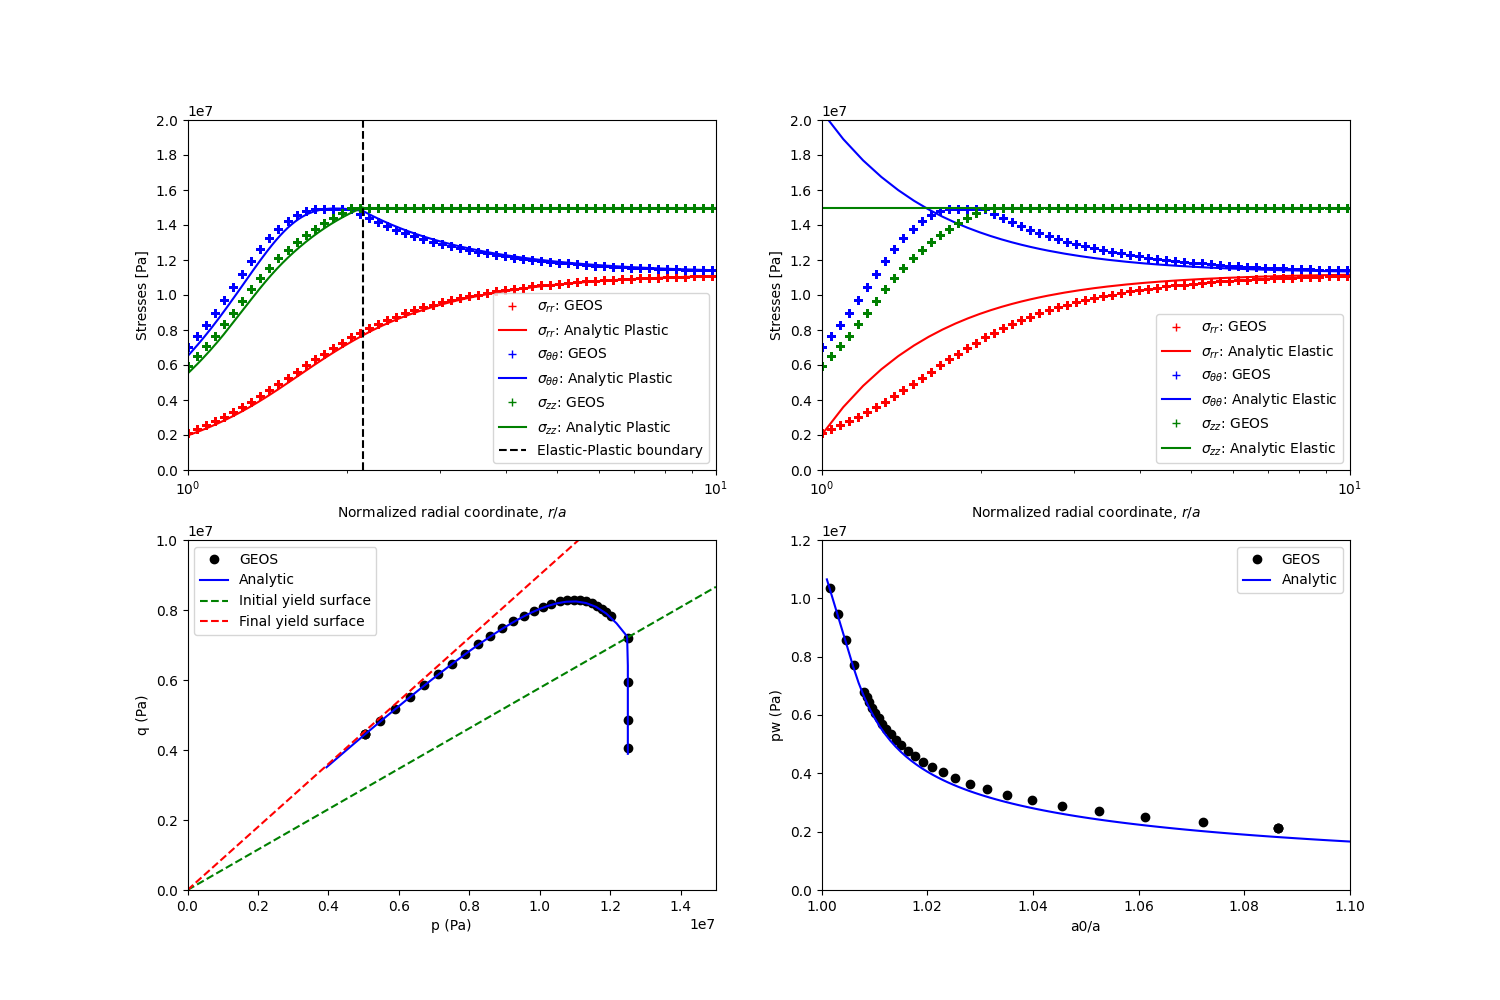
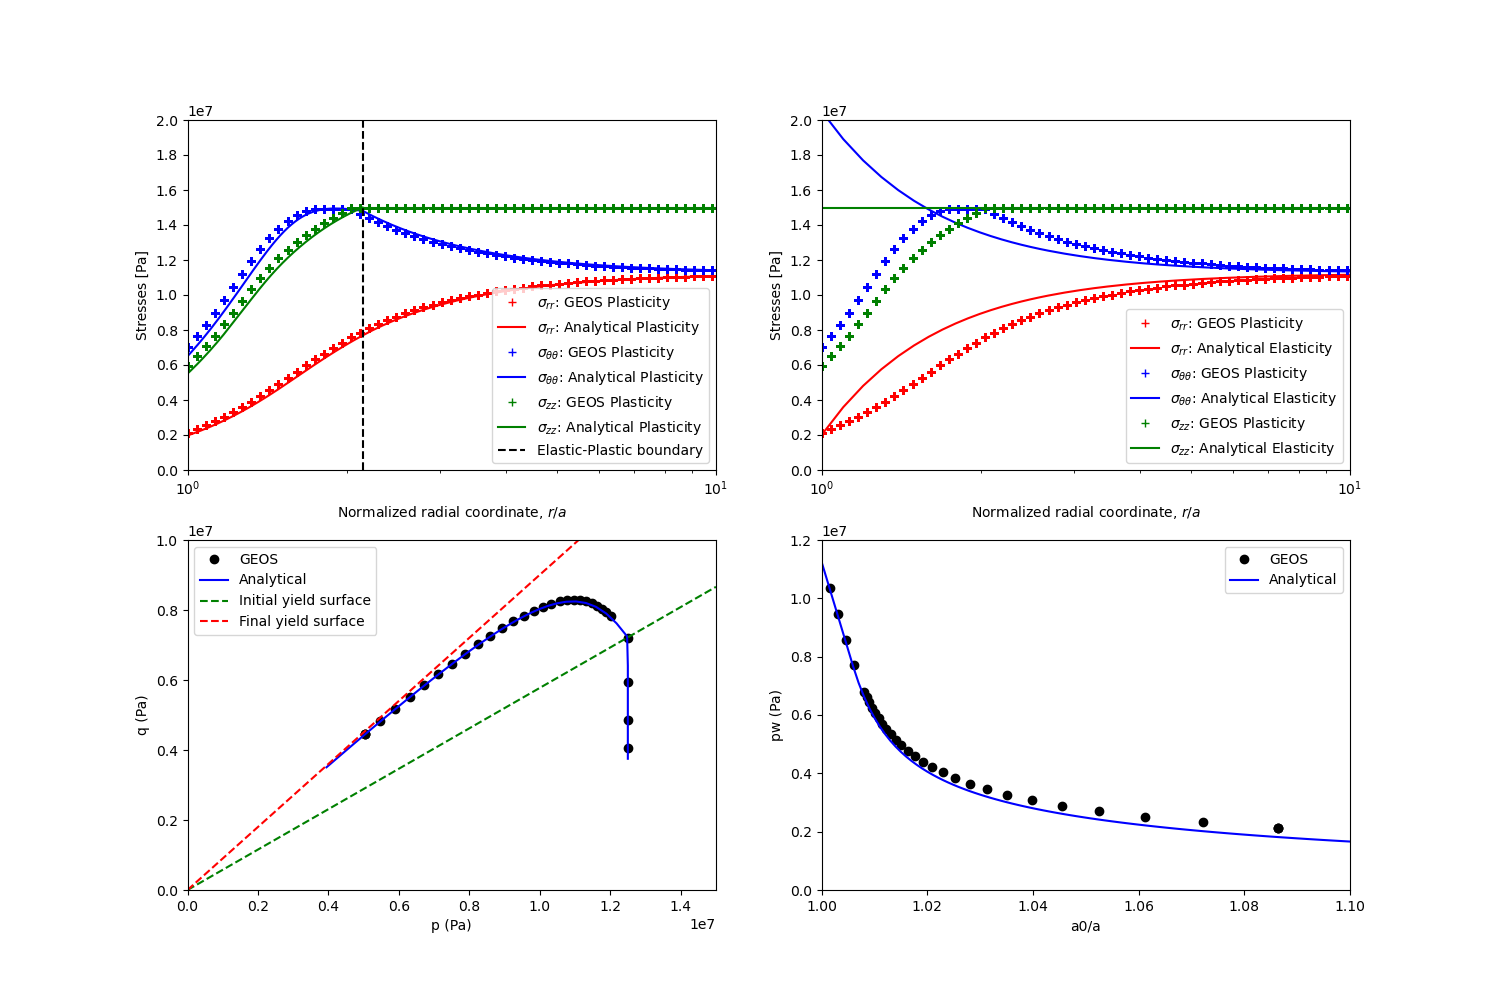
update legends

Changed region(s): [[0.7667, 0.31, 0.8893, 0.465], [0.3373, 0.279, 0.46, 0.434], [0.828, 0.558, 0.8893, 0.589]]

diff --git a/src/docs/sphinx/advancedExamples/validationStudies/wellboreProblems/edpWellbore/edpWellbore_plot.py b/src/docs/sphinx/advancedExamples/validationStudies/wellboreProblems/edpWellbore/edpWellbore_plot.py
@@ -162,16 +162,16 @@ def main():
 
 	# Plot GEOS results versus analytical results for elasto-plastic material
 	plt.subplot(2,2,1)
-	plt.plot( rCoord/rCoord[0],-stress_rr,'r+',label=r'$\sigma_{rr}$: GEOS')
-	plt.plot(r_ep_analytic,srr_ep_analytic, 'r', label=r'$\sigma_{rr}$: Analytic Plastic')
+	plt.plot( rCoord/rCoord[0],-stress_rr,'r+',label=r'$\sigma_{rr}$: GEOS Plasticity')
+	plt.plot(r_ep_analytic,srr_ep_analytic, 'r', label=r'$\sigma_{rr}$: Analytical Plasticity')
 	plt.plot(r_elas_analytic,srr_elas_analytic, 'r')
 
-	plt.plot( rCoord/rCoord[0],-stress_tt,'b+',label=r'$\sigma_{\theta\theta}$: GEOS')
-	plt.plot(r_ep_analytic,stt_ep_analytic, 'b', label=r'$\sigma_{\theta\theta}$: Analytic Plastic')
+	plt.plot( rCoord/rCoord[0],-stress_tt,'b+',label=r'$\sigma_{\theta\theta}$: GEOS Plasticity')
+	plt.plot(r_ep_analytic,stt_ep_analytic, 'b', label=r'$\sigma_{\theta\theta}$: Analytical Plasticity')
 	plt.plot(r_elas_analytic,stt_elas_analytic, 'b')
 
-	plt.plot( rCoord/rCoord[0],-stress_zz,'g+',label=r'$\sigma_{zz}$: GEOS')
-	plt.plot(r_ep_analytic,szz_ep_analytic, 'g', label=r'$\sigma_{zz}$: Analytic Plastic')
+	plt.plot( rCoord/rCoord[0],-stress_zz,'g+',label=r'$\sigma_{zz}$: GEOS Plasticity')
+	plt.plot(r_ep_analytic,szz_ep_analytic, 'g', label=r'$\sigma_{zz}$: Analytical Plasticity')
 	plt.plot(r_elas_analytic,szz_elas_analytic, 'g')
 
 	plt.plot([r_ep_analytic[0],r_ep_analytic[0]],[0.0,20e6],'k--', label='Elastic-Plastic boundary')
@@ -188,14 +188,14 @@ def main():
 	r_elas_assumed,srr_elas_assumed,stt_elas_assumed,szz_elas_assumed = epwAnal.solution_elastic(sh,sv,1.0,pw)
 
 	plt.subplot(2,2,2)
-	plt.plot( rCoord/rCoord[0],-stress_rr,'r+',label=r'$\sigma_{rr}$: GEOS')
-	plt.plot(r_elas_assumed,srr_elas_assumed, 'r', label=r'$\sigma_{rr}$: Analytic Elastic')
+	plt.plot( rCoord/rCoord[0],-stress_rr,'r+',label=r'$\sigma_{rr}$: GEOS Plasticity')
+	plt.plot(r_elas_assumed,srr_elas_assumed, 'r', label=r'$\sigma_{rr}$: Analytical Elasticity')
 
-	plt.plot( rCoord/rCoord[0],-stress_tt,'b+',label=r'$\sigma_{\theta\theta}$: GEOS')
-	plt.plot(r_elas_assumed,stt_elas_assumed, 'b', label=r'$\sigma_{\theta\theta}$: Analytic Elastic')
+	plt.plot( rCoord/rCoord[0],-stress_tt,'b+',label=r'$\sigma_{\theta\theta}$: GEOS Plasticity')
+	plt.plot(r_elas_assumed,stt_elas_assumed, 'b', label=r'$\sigma_{\theta\theta}$: Analytical Elasticity')
 
-	plt.plot( rCoord/rCoord[0],-stress_zz,'g+',label=r'$\sigma_{zz}$: GEOS')
-	plt.plot(r_elas_assumed,szz_elas_assumed, 'g', label=r'$\sigma_{zz}$: Analytic Elastic')
+	plt.plot( rCoord/rCoord[0],-stress_zz,'g+',label=r'$\sigma_{zz}$: GEOS Plasticity')
+	plt.plot(r_elas_assumed,szz_elas_assumed, 'g', label=r'$\sigma_{zz}$: Analytical Elasticity')
 	
 	plt.ylabel('Stresses [Pa]')
 	plt.xlabel(r'Normalized radial coordinate, $r/a$')
@@ -216,7 +216,7 @@ def main():
 
 	plt.subplot(2,2,3)
 	plt.plot(-p,q,'ko',label='GEOS')
-	plt.plot(list_p_wellsurface_analytic,list_q_wellsurface_analytic,'b',label='Analytic')
+	plt.plot(list_p_wellsurface_analytic,list_q_wellsurface_analytic,'b',label='Analytical')
 	plt.plot(p_yieldSurface,q_yieldSurface_i,'g--',label='Initial yield surface')
 	plt.plot(p_yieldSurface,q_yieldSurface_f,'r--',label='Final yield surface')
 
@@ -231,7 +231,7 @@ def main():
 
 	plt.subplot(2,2,4)
 	plt.plot(a0/a, -pw,'ko',label='GEOS')
-	plt.plot(list_a0_a_ratio,list_pw_analytic,'b',label='Analytic')
+	plt.plot(list_a0_a_ratio,list_pw_analytic,'b',label='Analytical')
 	plt.xlabel('a0/a')
 	plt.ylabel('pw (Pa)')
 	plt.xlim(1.0,1.1)
